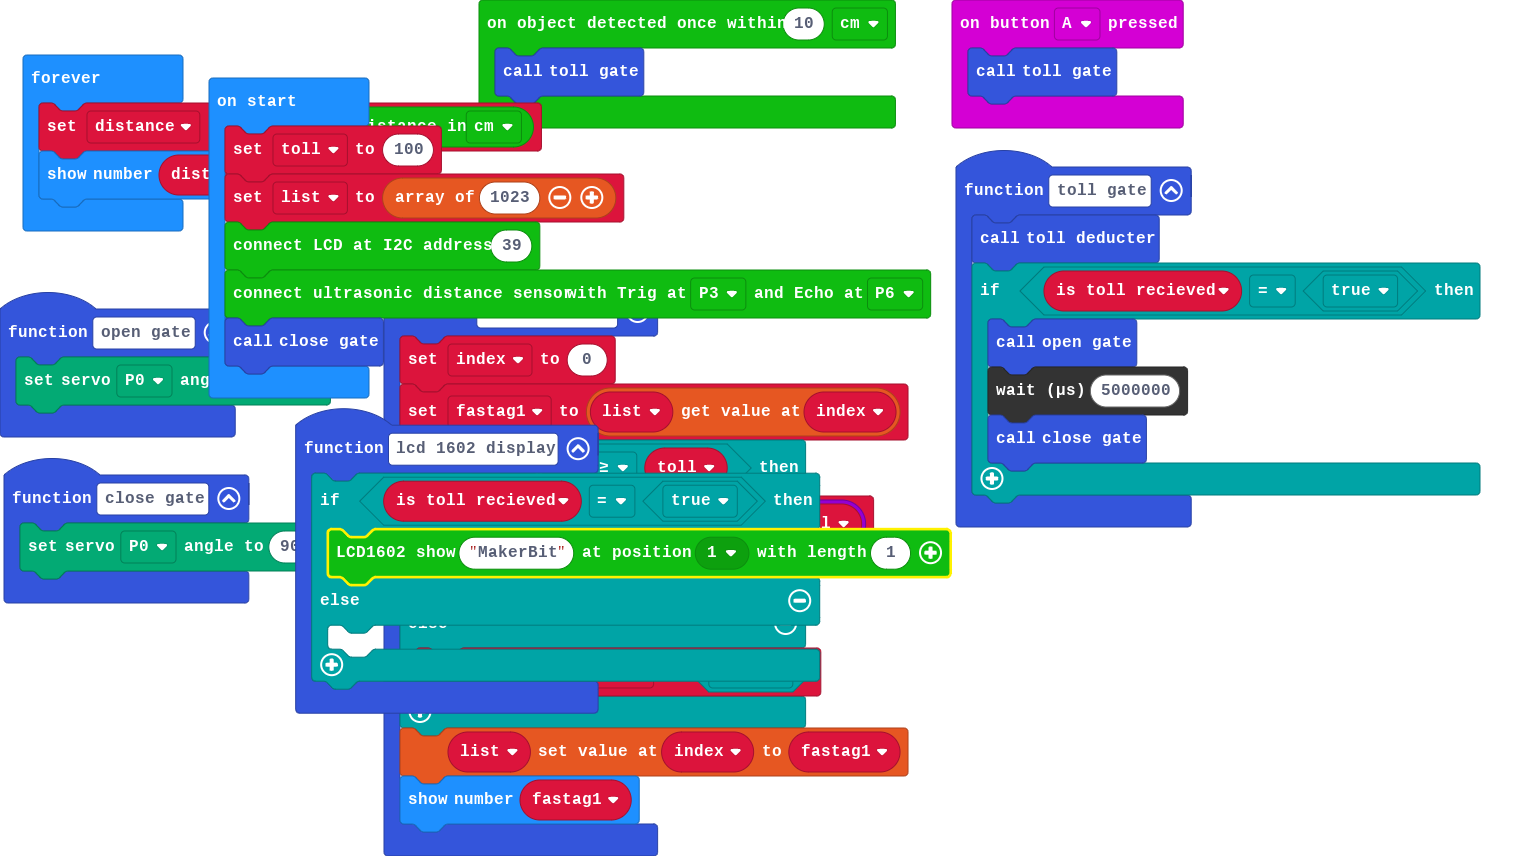
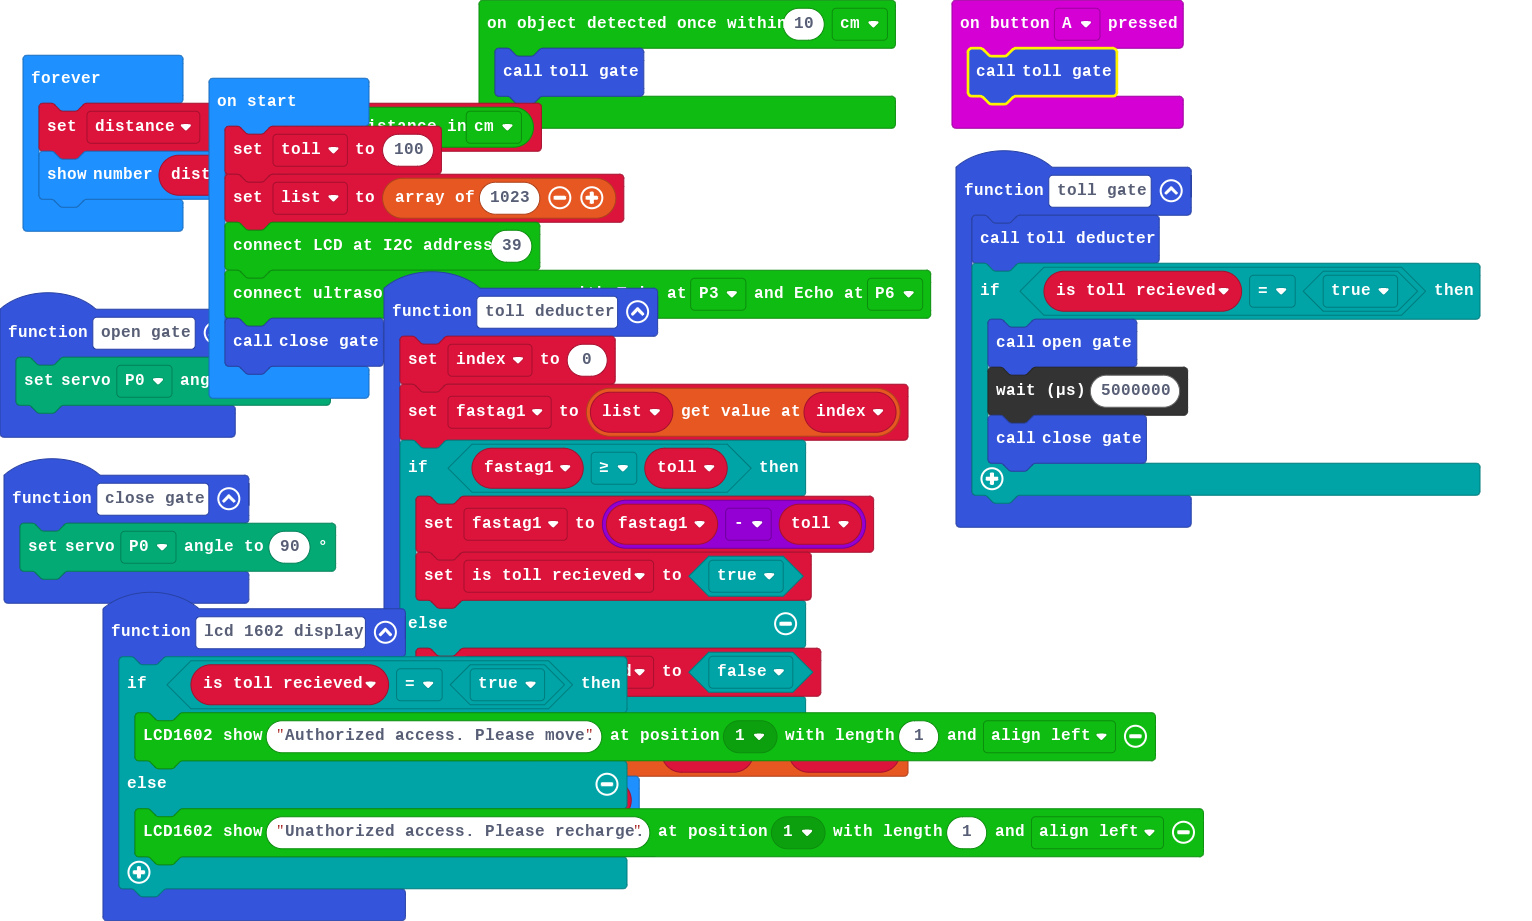
Update main.blocks, main.ts

diff --git a/main.ts b/main.ts
@@ -9,9 +9,9 @@ function close_gate () {
 }
 function lcd_1602_display () {
     if (is_toll_recieved == true) {
-        makerbit.showStringOnLcd1602("MakerBit", makerbit.position1602(LcdPosition1602.Pos1), 1)
+        makerbit.showStringOnLcd1602("Authorized access. Please move.", makerbit.position1602(LcdPosition1602.Pos1), 1, TextOption.AlignLeft)
     } else {
-    	
+        makerbit.showStringOnLcd1602("Unathorized access. Please recharge.", makerbit.position1602(LcdPosition1602.Pos1), 1, TextOption.AlignLeft)
     }
 }
 function toll_gate () {
